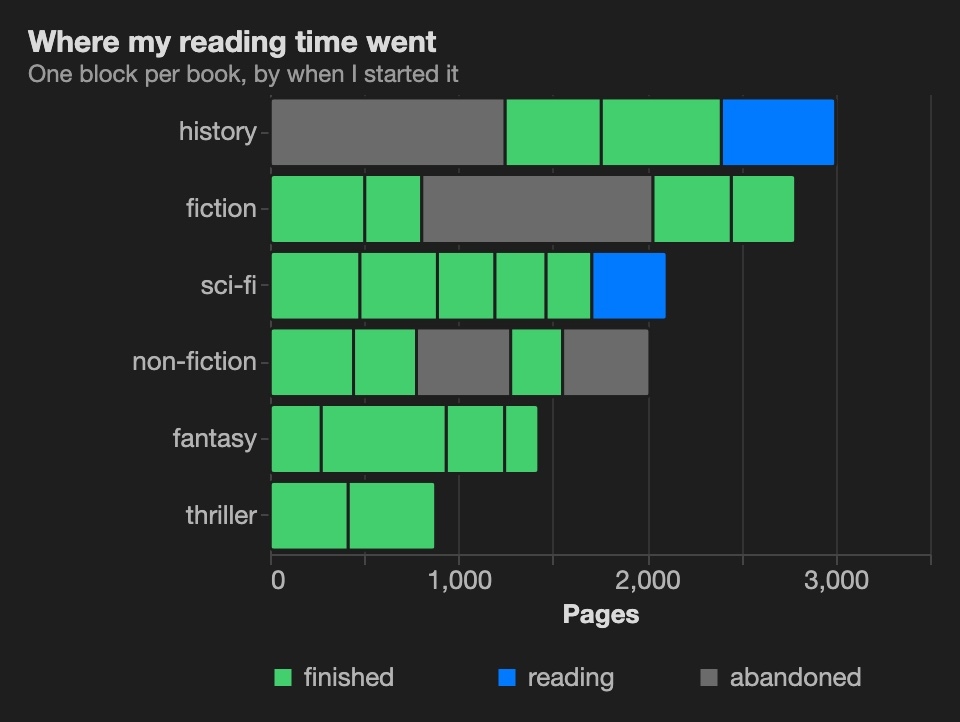
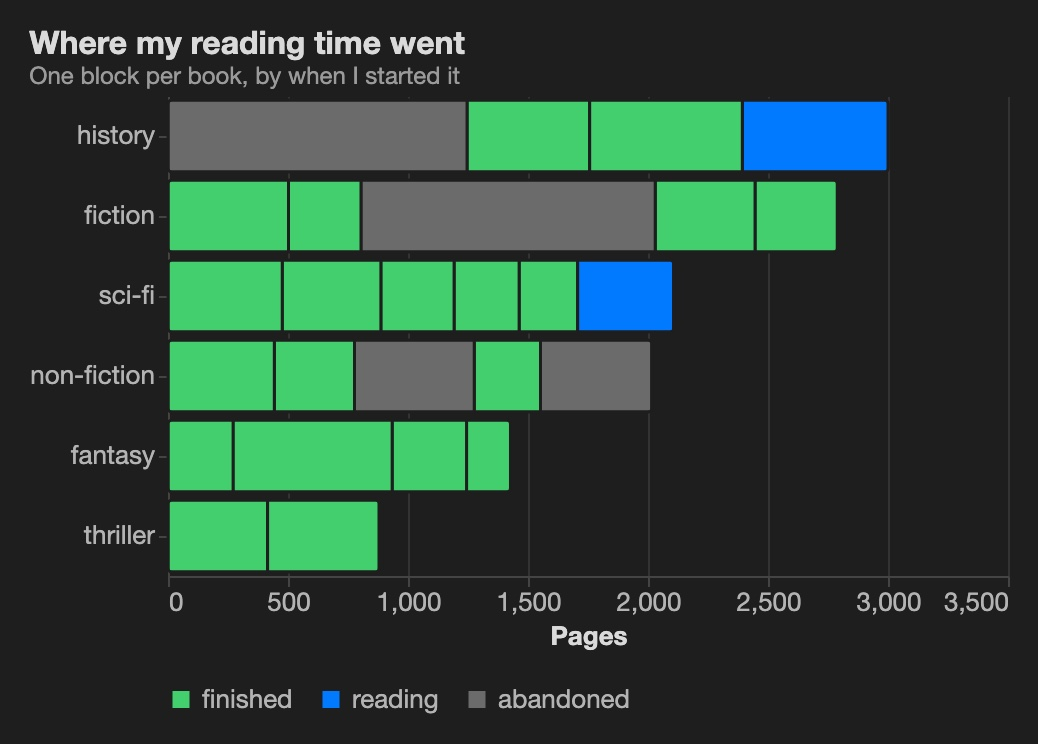
quickstart: copy buttons per snippet and per step; bookshelf height

diff --git a/docs/quickstart.html b/docs/quickstart.html
@@ -158,7 +158,7 @@ Properties in this base:
       <p class="tut-n"><span>4</span> spec</p>
       <h2>Read the spec, then make it yours.</h2>
       <p>The spec is plain <a href="https://vega.github.io/vega-lite/">Vega-Lite</a> JSON. Read it top to bottom: the data is the base's notes; a bar mark; the genre down the side, a count along the bottom, colour from the status. The filter drops books with no genre.</p>
-      <pre class="codefig"><code>{
+      <pre data-full="4" class="codefig"><code>{
   <span class="k">&quot;$schema&quot;</span>: <span class="s">&quot;https://vega.github.io/schema/vega-lite/v6.json&quot;</span>,
   <span class="k">&quot;data&quot;</span>: {
     <span class="k">&quot;name&quot;</span>: <span class="s">&quot;base&quot;</span>
@@ -204,7 +204,7 @@ Properties in this base:
         <p class="tweak-n">4.1</p>
         <h3>Pick the colours</h3>
         <p>Vega-Lite chose a palette for the three statuses. Give each its own colour with a <code>scale</code> on the colour channel: green for finished, blue for reading, grey for abandoned.</p>
-        <pre class="codefig"><code><span class="k">&quot;color&quot;</span>: {
+        <pre data-full="4.1" class="codefig"><code><span class="k">&quot;color&quot;</span>: {
   <span class="k">&quot;field&quot;</span>: <span class="s">&quot;note.status&quot;</span>,
   <span class="k">&quot;type&quot;</span>: <span class="s">&quot;nominal&quot;</span>,
   <span class="k">&quot;title&quot;</span>: <span class="s">&quot;status&quot;</span>,
@@ -221,7 +221,7 @@ Properties in this base:
         <p class="tweak-n">4.2</p>
         <h3>Count pages, not books</h3>
         <p>Swap the count for a sum of a number property. Now each bar shows how many pages of that genre you got through: history is long, thrillers are quick.</p>
-        <pre class="codefig"><code><span class="k">&quot;x&quot;</span>: {
+        <pre data-full="4.2" class="codefig"><code><span class="k">&quot;x&quot;</span>: {
   <span class="k">&quot;aggregate&quot;</span>: <span class="s">&quot;sum&quot;</span>,
   <span class="k">&quot;field&quot;</span>: <span class="s">&quot;note.pages&quot;</span>,
   <span class="k">&quot;title&quot;</span>: <span class="s">&quot;Pages&quot;</span>
@@ -234,7 +234,7 @@ Properties in this base:
         <p class="tweak-n">4.3</p>
         <h3>Title it, tidy the legend</h3>
         <p>Add a title at the top level, drop the axis title the title now explains, and move the legend under the chart.</p>
-        <pre class="codefig"><code><span class="k">&quot;title&quot;</span>: {
+        <pre data-full="4.3" class="codefig"><code><span class="k">&quot;title&quot;</span>: {
   <span class="k">&quot;text&quot;</span>: <span class="s">&quot;Where my reading time went&quot;</span>,
   <span class="k">&quot;anchor&quot;</span>: <span class="s">&quot;start&quot;</span>
 },
@@ -250,12 +250,13 @@ Properties in this base:
       <div class="tut-text">
         <p class="tweak-n">4.4</p>
         <h3>One block per book, with its cover</h3>
-        <p>Split each bar into its books: <code>detail</code> draws one block per note, <code>order</code> lines them up by when you started, and a thin dark stroke separates the spines. Now the chart reads like a shelf: the grey doorstoppers you gave up on stand out.</p>
+        <p>Split each bar into its books: <code>detail</code> draws one block per note, <code>order</code> lines them up by when you started, a thin dark stroke separates the spines, and <code>"height": {"step": 40}</code> gives every genre a 40px row, room for a cover later. Now the chart reads like a shelf: the grey doorstoppers you gave up on stand out.</p>
         <p>Then put the cover in the tooltip. Add a formula to the base that turns each book's <code>isbn</code> into an <a href="https://openlibrary.org/dev/docs/api/covers">Open Library cover</a> URL:</p>
-        <pre class="codefig"><code><span class="k">formulas</span>:<span class="s"></span>
+        <pre data-full="base-4.4" class="codefig"><code><span class="k">formulas</span>:<span class="s"></span>
 <span class="k">  cover</span>:<span class="s"> if(isbn, &quot;https://covers.openlibrary.org/b/isbn/&quot; + isbn + &quot;-M.jpg&quot;, null)</span></code></pre>
         <p>and list it in the tooltip with the title <code>image</code>: Agate draws that field as a picture, and the one titled <code>title</code> as the heading. Hover a block to see the book; click it to open the note.</p>
-        <pre class="codefig"><code><span class="k">&quot;mark&quot;</span>: { <span class="k">&quot;type&quot;</span>: <span class="s">&quot;bar&quot;</span>, <span class="k">&quot;stroke&quot;</span>: <span class="s">&quot;#1e1e1e&quot;</span>, <span class="k">&quot;strokeWidth&quot;</span>: <span class="n">1.5</span> },
+        <pre data-full="4.4" class="codefig"><code><span class="k">&quot;height&quot;</span>: { <span class="k">&quot;step&quot;</span>: <span class="n">40</span> },
+<span class="k">&quot;mark&quot;</span>: { <span class="k">&quot;type&quot;</span>: <span class="s">&quot;bar&quot;</span>, <span class="k">&quot;stroke&quot;</span>: <span class="s">&quot;#1e1e1e&quot;</span>, <span class="k">&quot;strokeWidth&quot;</span>: <span class="n">1.5</span> },
 <span class="k">&quot;encoding&quot;</span>: {
   …,
   <span class="k">&quot;detail&quot;</span>: { <span class="k">&quot;field&quot;</span>: <span class="s">&quot;file.name&quot;</span> },
@@ -277,7 +278,7 @@ Properties in this base:
         <p class="tweak-n">4.5 · going further</p>
         <h3>Covers on the spines, an open end for what you're reading, hatching for what you dropped</h3>
         <p>To draw on top of each block you need its position, so compute the stack yourself: a <code>stack</code> transform gives every book its start and end (<code>x0</code>, <code>x1</code>). Then layer three marks on the same positions: the finished and abandoned books as plain blocks, the books still in progress with a rounded, open right end, and each cover as a small <code>image</code> at the start of its block.</p>
-        <pre class="codefig"><code><span class="k">&quot;transform&quot;</span>: [
+        <pre data-full="4.5" class="codefig"><code><span class="k">&quot;transform&quot;</span>: [
   …,
   { <span class="k">&quot;stack&quot;</span>: <span class="s">&quot;pages&quot;</span>, <span class="k">&quot;groupby&quot;</span>: [<span class="s">&quot;genre&quot;</span>],
     <span class="k">&quot;sort&quot;</span>: [{ <span class="k">&quot;field&quot;</span>: <span class="s">&quot;started&quot;</span> }], <span class="k">&quot;as&quot;</span>: [<span class="s">&quot;x0&quot;</span>, <span class="s">&quot;x1&quot;</span>] }
@@ -294,7 +295,7 @@ Properties in this base:
     <span class="k">&quot;encoding&quot;</span>: { <span class="k">&quot;x&quot;</span>: { <span class="k">&quot;field&quot;</span>: <span class="s">&quot;x0&quot;</span> }, <span class="k">&quot;url&quot;</span>: { <span class="k">&quot;field&quot;</span>: <span class="s">&quot;cover&quot;</span> }, … } }
 ]</code></pre>
         <p>Last, mark the abandoned books as dead ends: an Agate texture hatches them, declared once and used like a colour in the scale, so the legend shows it too (<a href="https://github.com/Casyfill/Agate/blob/main/docs/guide.md#textures-hatching-and-dots-svg-only">textures</a> work with the SVG renderer).</p>
-        <pre class="codefig"><code><span class="k">"usermeta"</span>: { <span class="k">"agate"</span>: { <span class="k">"textures"</span>: {
+        <pre data-full="4.5" class="codefig"><code><span class="k">"usermeta"</span>: { <span class="k">"agate"</span>: { <span class="k">"textures"</span>: {
   <span class="k">"abandoned"</span>: { <span class="k">"orientation"</span>: <span class="s">"diagonal"</span>, <span class="k">"size"</span>: <span class="n">7</span>,
                  <span class="k">"stroke"</span>: <span class="s">"#7a7a7a"</span>, <span class="k">"background"</span>: <span class="s">"#2e2e2e"</span> }
 } } },
@@ -353,6 +354,34 @@ base: Books.base
   </footer>
 
 </div>
+<script id="step-files" type="application/json">{"4": "{\n  \"$schema\": \"https://vega.github.io/schema/vega-lite/v6.json\",\n  \"usermeta\": {\n    \"agate\": {\n      \"open\": \"click\",\n      \"fromRecipe\": {\n        \"id\": \"bars\",\n        \"roles\": {\n          \"category\": \"note.genre\",\n          \"colour\": \"note.status\"\n        }\n      }\n    }\n  },\n  \"data\": {\n    \"name\": \"base\"\n  },\n  \"mark\": {\n    \"type\": \"bar\",\n    \"tooltip\": true,\n    \"cornerRadiusEnd\": 3\n  },\n  \"encoding\": {\n    \"y\": {\n      \"field\": \"note.genre\",\n      \"type\": \"nominal\",\n      \"sort\": \"-x\",\n      \"title\": \"genre\"\n    },\n    \"x\": {\n      \"aggregate\": \"count\",\n      \"title\": \"Notes\"\n    },\n    \"color\": {\n      \"field\": \"note.status\",\n      \"type\": \"nominal\",\n      \"title\": \"status\"\n    }\n  },\n  \"transform\": [\n    {\n      \"filter\": \"isValid(datum[\\\"note\\\"][\\\"genre\\\"]) && datum[\\\"note\\\"][\\\"genre\\\"] !== ''\"\n    }\n  ]\n}\n", "4.1": "{\n  \"$schema\": \"https://vega.github.io/schema/vega-lite/v6.json\",\n  \"usermeta\": {\n    \"agate\": {\n      \"open\": \"click\",\n      \"fromRecipe\": {\n        \"id\": \"bars\",\n        \"roles\": {\n          \"category\": \"note.genre\",\n          \"colour\": \"note.status\"\n        }\n      }\n    }\n  },\n  \"data\": {\n    \"name\": \"base\"\n  },\n  \"mark\": {\n    \"type\": \"bar\",\n    \"tooltip\": true,\n    \"cornerRadiusEnd\": 3\n  },\n  \"encoding\": {\n    \"y\": {\n      \"field\": \"note.genre\",\n      \"type\": \"nominal\",\n      \"sort\": \"-x\",\n      \"title\": \"genre\"\n    },\n    \"x\": {\n      \"aggregate\": \"count\",\n      \"title\": \"Notes\"\n    },\n    \"color\": {\n      \"field\": \"note.status\",\n      \"type\": \"nominal\",\n      \"title\": \"status\",\n      \"scale\": {\n        \"domain\": [\n          \"finished\",\n          \"reading\",\n          \"abandoned\"\n        ],\n        \"range\": [\n          \"#44cf6e\",\n          \"#027aff\",\n          \"#6b6b6b\"\n        ]\n      }\n    }\n  },\n  \"transform\": [\n    {\n      \"filter\": \"isValid(datum[\\\"note\\\"][\\\"genre\\\"]) && datum[\\\"note\\\"][\\\"genre\\\"] !== ''\"\n    }\n  ]\n}\n", "4.2": "{\n  \"$schema\": \"https://vega.github.io/schema/vega-lite/v6.json\",\n  \"usermeta\": {\n    \"agate\": {\n      \"open\": \"click\",\n      \"fromRecipe\": {\n        \"id\": \"bars\",\n        \"roles\": {\n          \"category\": \"note.genre\",\n          \"colour\": \"note.status\"\n        }\n      }\n    }\n  },\n  \"data\": {\n    \"name\": \"base\"\n  },\n  \"mark\": {\n    \"type\": \"bar\",\n    \"tooltip\": true,\n    \"cornerRadiusEnd\": 3\n  },\n  \"encoding\": {\n    \"y\": {\n      \"field\": \"note.genre\",\n      \"type\": \"nominal\",\n      \"sort\": \"-x\",\n      \"title\": \"genre\"\n    },\n    \"x\": {\n      \"aggregate\": \"sum\",\n      \"field\": \"note.pages\",\n      \"title\": \"Pages\"\n    },\n    \"color\": {\n      \"field\": \"note.status\",\n      \"type\": \"nominal\",\n      \"title\": \"status\",\n      \"scale\": {\n        \"domain\": [\n          \"finished\",\n          \"reading\",\n          \"abandoned\"\n        ],\n        \"range\": [\n          \"#44cf6e\",\n          \"#027aff\",\n          \"#6b6b6b\"\n        ]\n      }\n    }\n  },\n  \"transform\": [\n    {\n      \"filter\": \"isValid(datum[\\\"note\\\"][\\\"genre\\\"]) && datum[\\\"note\\\"][\\\"genre\\\"] !== ''\"\n    }\n  ]\n}\n", "4.3": "{\n  \"$schema\": \"https://vega.github.io/schema/vega-lite/v6.json\",\n  \"usermeta\": {\n    \"agate\": {\n      \"open\": \"click\",\n      \"fromRecipe\": {\n        \"id\": \"bars\",\n        \"roles\": {\n          \"category\": \"note.genre\",\n          \"colour\": \"note.status\"\n        }\n      }\n    }\n  },\n  \"data\": {\n    \"name\": \"base\"\n  },\n  \"mark\": {\n    \"type\": \"bar\",\n    \"tooltip\": true,\n    \"cornerRadiusEnd\": 3\n  },\n  \"encoding\": {\n    \"y\": {\n      \"field\": \"note.genre\",\n      \"type\": \"nominal\",\n      \"sort\": \"-x\",\n      \"title\": null\n    },\n    \"x\": {\n      \"aggregate\": \"sum\",\n      \"field\": \"note.pages\",\n      \"title\": \"Pages\"\n    },\n    \"color\": {\n      \"field\": \"note.status\",\n      \"type\": \"nominal\",\n      \"title\": \"status\",\n      \"scale\": {\n        \"domain\": [\n          \"finished\",\n          \"reading\",\n          \"abandoned\"\n        ],\n        \"range\": [\n          \"#44cf6e\",\n          \"#027aff\",\n          \"#6b6b6b\"\n        ]\n      },\n      \"legend\": {\n        \"orient\": \"bottom\",\n        \"title\": null\n      }\n    }\n  },\n  \"transform\": [\n    {\n      \"filter\": \"isValid(datum[\\\"note\\\"][\\\"genre\\\"]) && datum[\\\"note\\\"][\\\"genre\\\"] !== ''\"\n    }\n  ],\n  \"title\": {\n    \"text\": \"Where my reading time went\",\n    \"anchor\": \"start\"\n  }\n}\n", "4.4": "{\n  \"$schema\": \"https://vega.github.io/schema/vega-lite/v6.json\",\n  \"description\": \"Pages read per genre, one block per book in the order I started them, coloured by status. Hover a block for the book and its cover (formula.cover in Books.base), click to open the note. The Agate quickstart's finished chart.\",\n  \"usermeta\": {\n    \"agate\": {\n      \"open\": \"click\"\n    }\n  },\n  \"title\": {\n    \"text\": \"Where my reading time went\",\n    \"anchor\": \"start\",\n    \"subtitle\": \"One block per book, by when I started it\"\n  },\n  \"height\": {\n    \"step\": 40\n  },\n  \"data\": {\n    \"name\": \"base\"\n  },\n  \"transform\": [\n    {\n      \"filter\": \"isValid(datum[\\\"note\\\"][\\\"genre\\\"]) && datum[\\\"note\\\"][\\\"genre\\\"] !== ''\"\n    }\n  ],\n  \"mark\": {\n    \"type\": \"bar\",\n    \"cornerRadius\": 2,\n    \"stroke\": \"#1e1e1e\",\n    \"strokeWidth\": 1.5,\n    \"cursor\": \"pointer\"\n  },\n  \"encoding\": {\n    \"y\": {\n      \"field\": \"note.genre\",\n      \"type\": \"nominal\",\n      \"sort\": \"-x\",\n      \"title\": null\n    },\n    \"x\": {\n      \"aggregate\": \"sum\",\n      \"field\": \"note.pages\",\n      \"title\": \"Pages\"\n    },\n    \"color\": {\n      \"field\": \"note.status\",\n      \"type\": \"nominal\",\n      \"title\": \"status\",\n      \"scale\": {\n        \"domain\": [\n          \"finished\",\n          \"reading\",\n          \"abandoned\"\n        ],\n        \"range\": [\n          \"#44cf6e\",\n          \"#027aff\",\n          \"#6b6b6b\"\n        ]\n      },\n      \"legend\": {\n        \"orient\": \"bottom\",\n        \"title\": null\n      }\n    },\n    \"detail\": {\n      \"field\": \"file.name\"\n    },\n    \"order\": {\n      \"field\": \"note.started\",\n      \"type\": \"temporal\"\n    },\n    \"tooltip\": [\n      {\n        \"field\": \"file.name\",\n        \"title\": \"title\"\n      },\n      {\n        \"field\": \"formula.cover\",\n        \"title\": \"image\"\n      },\n      {\n        \"field\": \"note.author\",\n        \"title\": \"Author\"\n      },\n      {\n        \"field\": \"note.pages\",\n        \"title\": \"Pages\"\n      },\n      {\n        \"field\": \"note.status\",\n        \"title\": \"Status\"\n      }\n    ]\n  }\n}\n", "4.5": "{\n  \"$schema\": \"https://vega.github.io/schema/vega-lite/v6.json\",\n  \"description\": \"Pages read per genre as a bookshelf: one block per book in the order I started them, its cover at the spine, books still being read with a rounded open end, abandoned ones hatched (an Agate texture, SVG renderer only). Hover for the book, click to open the note.\",\n  \"usermeta\": {\n    \"agate\": {\n      \"open\": \"click\",\n      \"textures\": {\n        \"abandoned\": {\n          \"orientation\": \"diagonal\",\n          \"size\": 7,\n          \"strokeWidth\": 1.4,\n          \"stroke\": \"#7a7a7a\",\n          \"background\": \"#2e2e2e\"\n        }\n      }\n    }\n  },\n  \"title\": {\n    \"text\": \"Where my reading time went\",\n    \"subtitle\": \"One block per book, by when I started it\",\n    \"anchor\": \"start\"\n  },\n  \"height\": {\n    \"step\": 40\n  },\n  \"data\": {\n    \"name\": \"base\"\n  },\n  \"transform\": [\n    {\n      \"filter\": \"isValid(datum.note.genre)\"\n    },\n    {\n      \"calculate\": \"datum.note.genre\",\n      \"as\": \"genre\"\n    },\n    {\n      \"calculate\": \"datum.note.pages\",\n      \"as\": \"pages\"\n    },\n    {\n      \"calculate\": \"datum.note.status\",\n      \"as\": \"status\"\n    },\n    {\n      \"calculate\": \"datum.note.author\",\n      \"as\": \"author\"\n    },\n    {\n      \"calculate\": \"datum.file.name\",\n      \"as\": \"title\"\n    },\n    {\n      \"calculate\": \"datum.formula.cover\",\n      \"as\": \"cover\"\n    },\n    {\n      \"calculate\": \"toDate(datum.note.started)\",\n      \"as\": \"started\"\n    },\n    {\n      \"stack\": \"pages\",\n      \"groupby\": [\n        \"genre\"\n      ],\n      \"sort\": [\n        {\n          \"field\": \"started\"\n        }\n      ],\n      \"as\": [\n        \"x0\",\n        \"x1\"\n      ]\n    },\n    {\n      \"joinaggregate\": [\n        {\n          \"op\": \"sum\",\n          \"field\": \"pages\",\n          \"as\": \"total\"\n        }\n      ],\n      \"groupby\": [\n        \"genre\"\n      ]\n    }\n  ],\n  \"encoding\": {\n    \"y\": {\n      \"field\": \"genre\",\n      \"type\": \"nominal\",\n      \"title\": null,\n      \"sort\": {\n        \"field\": \"total\",\n        \"op\": \"max\",\n        \"order\": \"descending\"\n      }\n    }\n  },\n  \"layer\": [\n    {\n      \"transform\": [\n        {\n          \"filter\": \"datum.status !== 'reading'\"\n        }\n      ],\n      \"mark\": {\n        \"type\": \"bar\",\n        \"cornerRadius\": 2,\n        \"stroke\": \"#1e1e1e\",\n        \"strokeWidth\": 1.5,\n        \"cursor\": \"pointer\"\n      },\n      \"encoding\": {\n        \"x\": {\n          \"field\": \"x0\",\n          \"type\": \"quantitative\",\n          \"title\": \"Pages\"\n        },\n        \"x2\": {\n          \"field\": \"x1\"\n        },\n        \"color\": {\n          \"field\": \"status\",\n          \"type\": \"nominal\",\n          \"scale\": {\n            \"domain\": [\n              \"finished\",\n              \"reading\",\n              \"abandoned\"\n            ],\n            \"range\": [\n              \"#44cf6e\",\n              \"#027aff\",\n              \"url(#abandoned)\"\n            ]\n          },\n          \"legend\": {\n            \"orient\": \"bottom\",\n            \"title\": null\n          }\n        },\n        \"tooltip\": [\n          {\n            \"field\": \"title\",\n            \"title\": \"title\"\n          },\n          {\n            \"field\": \"cover\",\n            \"title\": \"image\"\n          },\n          {\n            \"field\": \"author\",\n            \"title\": \"Author\"\n          },\n          {\n            \"field\": \"pages\",\n            \"title\": \"Pages\"\n          },\n          {\n            \"field\": \"status\",\n            \"title\": \"Status\"\n          }\n        ]\n      }\n    },\n    {\n      \"transform\": [\n        {\n          \"filter\": \"datum.status === 'reading'\"\n        }\n      ],\n      \"mark\": {\n        \"type\": \"bar\",\n        \"cornerRadiusTopLeft\": 2,\n        \"cornerRadiusBottomLeft\": 2,\n        \"cornerRadiusTopRight\": 18,\n        \"cornerRadiusBottomRight\": 18,\n        \"stroke\": \"#1e1e1e\",\n        \"strokeWidth\": 1.5,\n        \"cursor\": \"pointer\"\n      },\n      \"encoding\": {\n        \"x\": {\n          \"field\": \"x0\",\n          \"type\": \"quantitative\",\n          \"title\": \"Pages\"\n        },\n        \"x2\": {\n          \"field\": \"x1\"\n        },\n        \"color\": {\n          \"field\": \"status\",\n          \"type\": \"nominal\",\n          \"scale\": {\n            \"domain\": [\n              \"finished\",\n              \"reading\",\n              \"abandoned\"\n            ],\n            \"range\": [\n              \"#44cf6e\",\n              \"#027aff\",\n              \"url(#abandoned)\"\n            ]\n          },\n          \"legend\": {\n            \"orient\": \"bottom\",\n            \"title\": null\n          }\n        },\n        \"tooltip\": [\n          {\n            \"field\": \"title\",\n            \"title\": \"title\"\n          },\n          {\n            \"field\": \"cover\",\n            \"title\": \"image\"\n          },\n          {\n            \"field\": \"author\",\n            \"title\": \"Author\"\n          },\n          {\n            \"field\": \"pages\",\n            \"title\": \"Pages\"\n          },\n          {\n            \"field\": \"status\",\n            \"title\": \"Status\"\n          }\n        ]\n      }\n    },\n    {\n      \"transform\": [\n        {\n          \"filter\": \"isValid(datum.cover)\"\n        }\n      ],\n      \"mark\": {\n        \"type\": \"image\",\n        \"width\": 21,\n        \"height\": 31,\n        \"align\": \"left\",\n        \"baseline\": \"middle\",\n        \"xOffset\": 4,\n        \"aspect\": true\n      },\n      \"encoding\": {\n        \"x\": {\n          \"field\": \"x0\",\n          \"type\": \"quantitative\",\n          \"title\": \"Pages\"\n        },\n        \"y\": {\n          \"field\": \"genre\",\n          \"type\": \"nominal\",\n          \"title\": null,\n          \"sort\": {\n            \"field\": \"total\",\n            \"op\": \"max\",\n            \"order\": \"descending\"\n          },\n          \"bandPosition\": 0.5\n        },\n        \"url\": {\n          \"field\": \"cover\"\n        },\n        \"tooltip\": [\n          {\n            \"field\": \"title\",\n            \"title\": \"title\"\n          },\n          {\n            \"field\": \"cover\",\n            \"title\": \"image\"\n          },\n          {\n            \"field\": \"author\",\n            \"title\": \"Author\"\n          },\n          {\n            \"field\": \"pages\",\n            \"title\": \"Pages\"\n          },\n          {\n            \"field\": \"status\",\n            \"title\": \"Status\"\n          }\n        ]\n      }\n    }\n  ]\n}\n", "base-4.4": "filters:\n  and:\n    - type == \"book\"\nformulas:\n  cover: if(isbn, \"https://covers.openlibrary.org/b/isbn/\" + isbn + \"-M.jpg\", null)\nviews:\n  - type: table\n    name: Shelf\n    order: [file.name, author, genre, pages, status, started, finished, rating]\n    sort:\n      - property: started\n        direction: DESC\n  - type: agate\n    name: Genres\n    order: [file.name, genre, status]\n    specFile: charts/bars-genre.vl.json\n  - type: agate\n    name: Bookshelf\n    order: [file.name, author, genre, pages, status]\n    specFile: charts/bookshelf.vl.json\n"}</script>
+<script>
+  // Copy buttons: every snippet copies itself; a snippet from a spec also copies the whole file as it is at that step.
+  (function () {
+    var files = JSON.parse(document.getElementById("step-files").textContent);
+    function copy(text, btn, label) {
+      var done = function () { btn.textContent = "Copied"; setTimeout(function () { btn.textContent = label; }, 1400); };
+      if (navigator.clipboard && window.isSecureContext) { navigator.clipboard.writeText(text).then(done, function () { fallback(text); done(); }); }
+      else { fallback(text); done(); }
+    }
+    function fallback(text) {
+      var t = document.createElement("textarea"); t.value = text; t.setAttribute("readonly", ""); t.style.position = "fixed"; t.style.opacity = "0";
+      document.body.appendChild(t); t.select(); try { document.execCommand("copy"); } catch (e) {} document.body.removeChild(t);
+    }
+    function button(label, title, text, bar) {
+      var b = document.createElement("button"); b.type = "button"; b.className = "copy-btn"; b.textContent = label; b.title = title;
+      b.addEventListener("click", function () { copy(typeof text === "function" ? text() : text, b, label); }); bar.appendChild(b);
+    }
+    document.querySelectorAll("pre.codefig").forEach(function (pre) {
+      var bar = document.createElement("div"); bar.className = "copy-bar";
+      var code = pre.querySelector("code");
+      button("Copy", "Copy this snippet", function () { return code.innerText.replace(/\n$/, "") + "\n"; }, bar);
+      var key = pre.getAttribute("data-full");
+      if (key && files[key]) button(key.indexOf("base") === 0 ? "Copy Books.base" : "Copy full spec", key.indexOf("base") === 0 ? "Copy the whole base file at this step" : "Copy the whole spec as it is after step " + key, files[key], bar);
+      pre.appendChild(bar);
+    });
+  })();
+</script>
 <script>
   document.querySelector(".mode").onclick = function () {
     var root = document.documentElement;

diff --git a/docs/site.css b/docs/site.css
@@ -229,7 +229,10 @@ footer a { color: var(--accent); }
 .tut-text b { color: var(--ink); font-weight: 600; }
 .tut-n { font-family: ui-monospace, monospace; font-size: 12px; letter-spacing: 0.08em; text-transform: uppercase; color: var(--accent); margin: 0; display: flex; align-items: center; gap: 10px; }
 .tut-n span { width: 26px; height: 26px; border-radius: 6px; background: var(--accent); color: var(--accent-ink); display: grid; place-items: center; font-weight: 700; font-size: 13px; }
-.tut .codefig { margin: 14px 0; font-size: 12.5px; }
+.tut .codefig { margin: 14px 0; font-size: 12.5px; position: relative; padding-top: 34px; }
+.copy-bar { position: absolute; top: 7px; right: 8px; display: flex; gap: 6px; }
+.copy-btn { font: 600 11px/1 ui-monospace, monospace; color: #c7cedb; background: rgba(255,255,255,0.06); border: 1px solid rgba(255,255,255,0.14); border-radius: 5px; padding: 5px 8px; cursor: pointer; }
+.copy-btn:hover { background: rgba(255,255,255,0.14); color: #fff; }
 .tut .codefig.prompt { color: #b9c1cf; white-space: pre-wrap; }
 .tut .get { margin-top: 16px; padding: 10px 12px; border-left: 2px solid var(--accent); background: var(--surface); border-radius: 0 6px 6px 0; font-size: 14px; }
 .tut-fig { margin: 0; position: sticky; top: 24px; }

diff --git a/CHANGELOG.md b/CHANGELOG.md
@@ -4,10 +4,18 @@ All notable changes to Agate. The format follows [Keep a Changelog](https://keep
 
 ## [Unreleased]
 
+### Added
+
+- Quickstart: every code snippet has a Copy button, and snippets from a spec also copy the whole spec (or base) as it is at that step.
+
 ### Changed
 
 - Editing specs goes through Obsidian: **Edit spec** on a chart and the commands **Edit the spec of the last chart** and **Edit a spec file** open the file in whatever Obsidian uses for it, split left of the chart; Agate recommends the [JSON Editor](https://community.obsidian.md/plugins/json-editor) community plugin. If nothing opens `.json`, a notice says what to install.
 - Settings: new **Editing specs** group (a link to the recommended plugin, and a toggle for Obsidian's Detect all file extensions so specs show in the file explorer); the theme settings moved into their own **Theme** group, below Data.
+
+### Fixed
+
+- Quickstart bookshelf specs: rows are 40px per genre (`"height": {"step": 40}`), so the cover thumbnails fit; the title no longer has a hard-coded light colour that vanished in light themes. Quickstart pictures are rendered at the specs' own height.
 
 ### Removed
 
